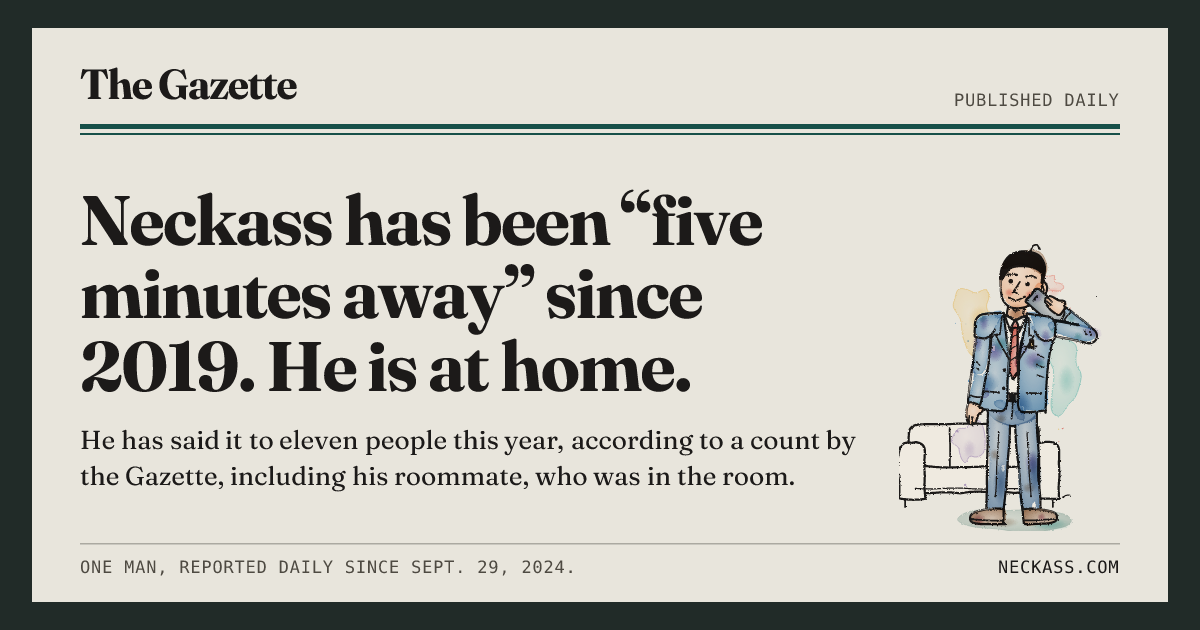
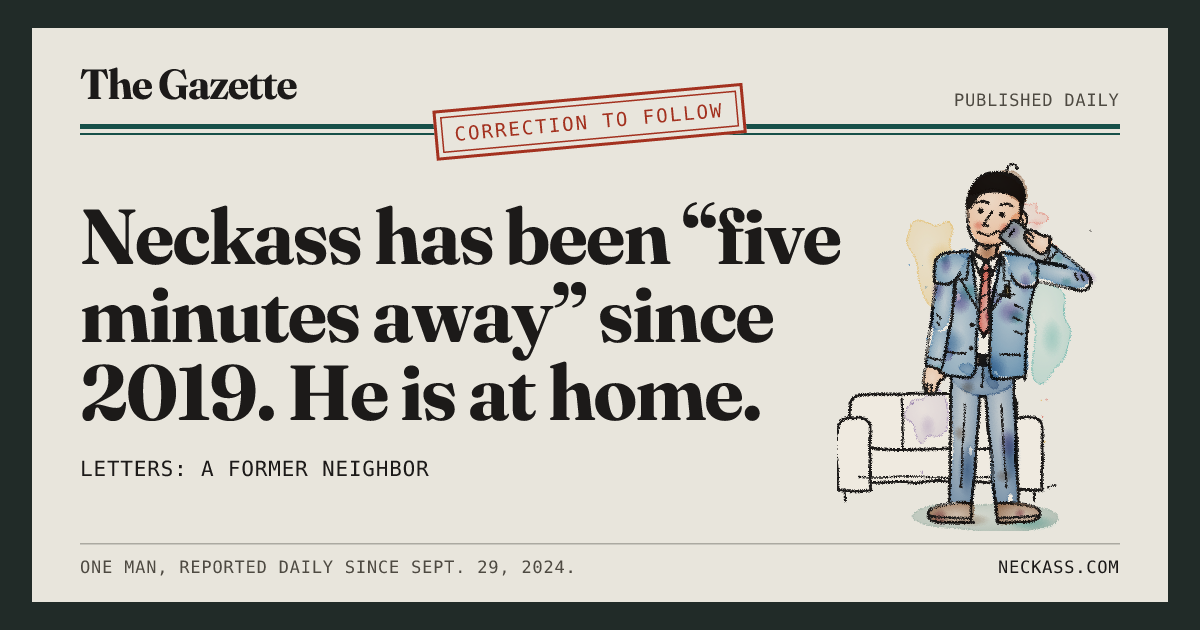
card: set the issue's card for a group chat
A group chat shows the card at about a quarter of its size, where the
26px deck and the motto do not read and the cut was a small figure at
the edge. An issue's card now gives the deck's room to the headline,
set as large as its lines allow (98px down to 58px, by an estimate of
Fraunces Bold's set width, so no lead overflows the letters line), and
draws the cut a quarter larger. The deck goes to the link's
description, which the chat prints under the card.

Two things change every day and are true of the issue: a line in the
wire's capitals naming who wrote in, by the lead's letter's signature
(LETTERS: A FRIEND, $40 DOWN), and a stamp in the rubric struck across
the cutoff rule, CORRECTION TO FOLLOW, since every lead's correction
runs the next morning, or a landmark's tag (HE WAS RIGHT). The rubric
stays with the corrections and the red-letter issues.

The still cards keep their decks and carry no stamp, except the
standing issue's, which is set as an issue's card is and is redrawn.
All 115 leads were drawn and checked at thumbnail size.

Claude-Session: https://claude.ai/code/session_01DcfMrwjet2gpsjxhF6FTsH

Changed region(s): [[0.0617, 0.2714, 0.925, 0.8444], [0.3392, 0.1206, 0.6475, 0.2714]]

diff --git a/scripts/generate-og.ts b/scripts/generate-og.ts
@@ -41,8 +41,11 @@ export type OgCard = {
     folio: string;
     /** The reason to click. */
     headline: string;
-    /** The headline's second beat. */
-    deck: string;
+    /** The headline's second beat; an issue's card has none. */
+    deck?: string;
+    /** An issue's card: the rubric's stamp, and who wrote in. */
+    stamp?: string;
+    footnote?: string;
     /** How the file cut stands beside it (data/poses.js). */
     pose: keyof typeof POSES;
     /** What it stands among (data/scenes.js), if anything. */
@@ -55,9 +58,12 @@ export const OG_CARDS: OgCard[] = [
         // drawing today's card.
         file: 'og-image.png',
         folio: 'PUBLISHED DAILY',
+        // It is set as an issue's card is (functions/card.png.js): the
+        // stamp and the letter's signature in place of the deck.
         headline:
             'Neckass has been “five minutes away” since 2019. He is at home.',
-        deck: 'He has said it to eleven people this year, according to a count by the Gazette, including his roommate, who was in the room.',
+        stamp: 'CORRECTION TO FOLLOW',
+        footnote: 'LETTERS: A FORMER NEIGHBOR',
         // The pose and scene that lead carries in data/formats.js.
         pose: 'phone',
         scene: ['phone', 'couch'],

diff --git a/functions/card.png.js b/functions/card.png.js
@@ -19,6 +19,7 @@
 
 import resvgWasm from '@resvg/resvg-wasm/index_bg.wasm';
 import yogaWasm from 'yoga-wasm-web/dist/yoga.wasm';
+import { EDITIONS } from '../data/editions.js';
 import {
     issueNumber,
     parseIssueDate,
@@ -33,6 +34,8 @@ import {
     HEIGHT,
     initCardRenderer,
     issueFolio,
+    issueStamp,
+    lettersLine,
     renderCardPng,
     WIDTH,
 } from './lib/card.mjs';
@@ -90,10 +93,14 @@ export async function onRequestGet({ request, env, waitUntil }) {
 
     await rendererReady;
     const fonts = await loadFonts(env, request);
+    // The deck goes in the link's description, under the card, where a
+    // group chat prints it at a size it can be read; the card gives its
+    // room to the headline, the stamp and who wrote in.
     const card = {
         folio: issueFolio(date, number),
         headline: lead.headline,
-        deck: lead.deck,
+        stamp: issueStamp(EDITIONS[number]),
+        footnote: lettersLine(lead),
         pose: poseOf(lead),
         scene: sceneOf(lead),
     };

diff --git a/SPECIFICATIONS.md b/SPECIFICATIONS.md
@@ -353,9 +353,19 @@ and pose when inlined. `assets/cuts/README.md` lists the properties.
   composed per request, `cache-control: public, max-age=3600`. Item titles and
   descriptions are XML-escaped.
 - `functions/card.png.js` serves `/card.png?issue=YYYY-MM-DD` (today's if
-  none): the nameplate, the issue's date and number, the lead and its deck
-  beside the file cut of him in the lead's pose, and the motto at the foot,
-  1200×630 PNG,
+  none): the nameplate, the issue's date and number, the lead beside the
+  file cut of him in the lead's pose, and the motto at the foot,
+  1200×630 PNG. It is made to be read at a quarter of its size, which is
+  how a group chat shows it: the headline is set as large as its lines
+  allow (98px down to 58px, by an estimate of its set width), the cut a
+  quarter larger than on the still cards, and the deck is left to the
+  link's description, which the chat prints under the card. In its place
+  the card carries who wrote in about the lead, in the wire's capitals,
+  by the letter's signature (*LETTERS: A FRIEND, $40 DOWN*), and a stamp
+  in the rubric is struck across the cutoff rule: *CORRECTION TO FOLLOW*,
+  which is true of every lead, or a landmark's tag (*HE WAS RIGHT*). The
+  still cards keep their decks and carry no stamp, except the standing
+  issue's (`og-image.png`), which is set as an issue's card is. The card is
   drawn by Satori and resvg with two static cuts of Fraunces and Bitstream
   Vera Sans Mono (the wire's lines: the date and number, the motto, the
   address) fetched from `/fonts/` through the ASSETS binding. It carries
